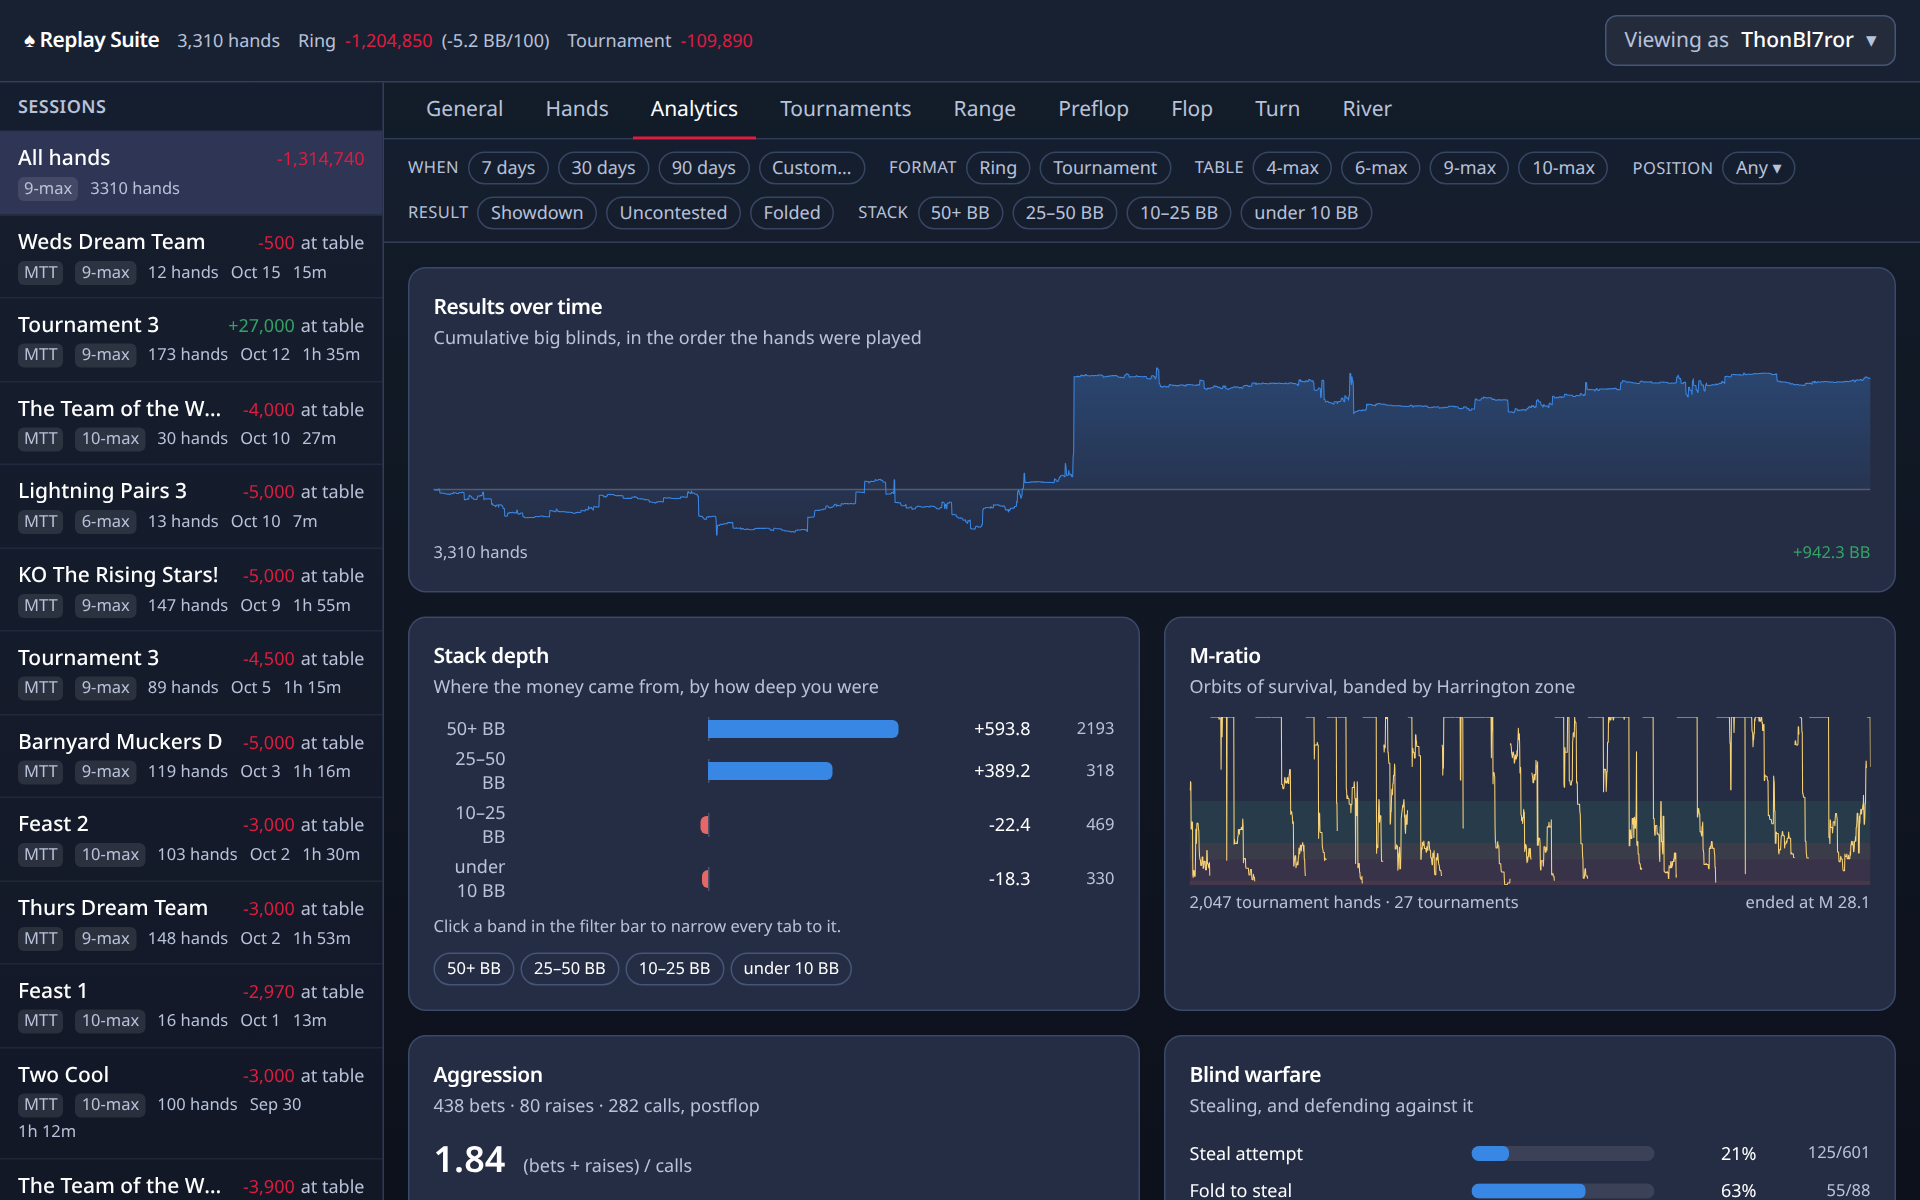
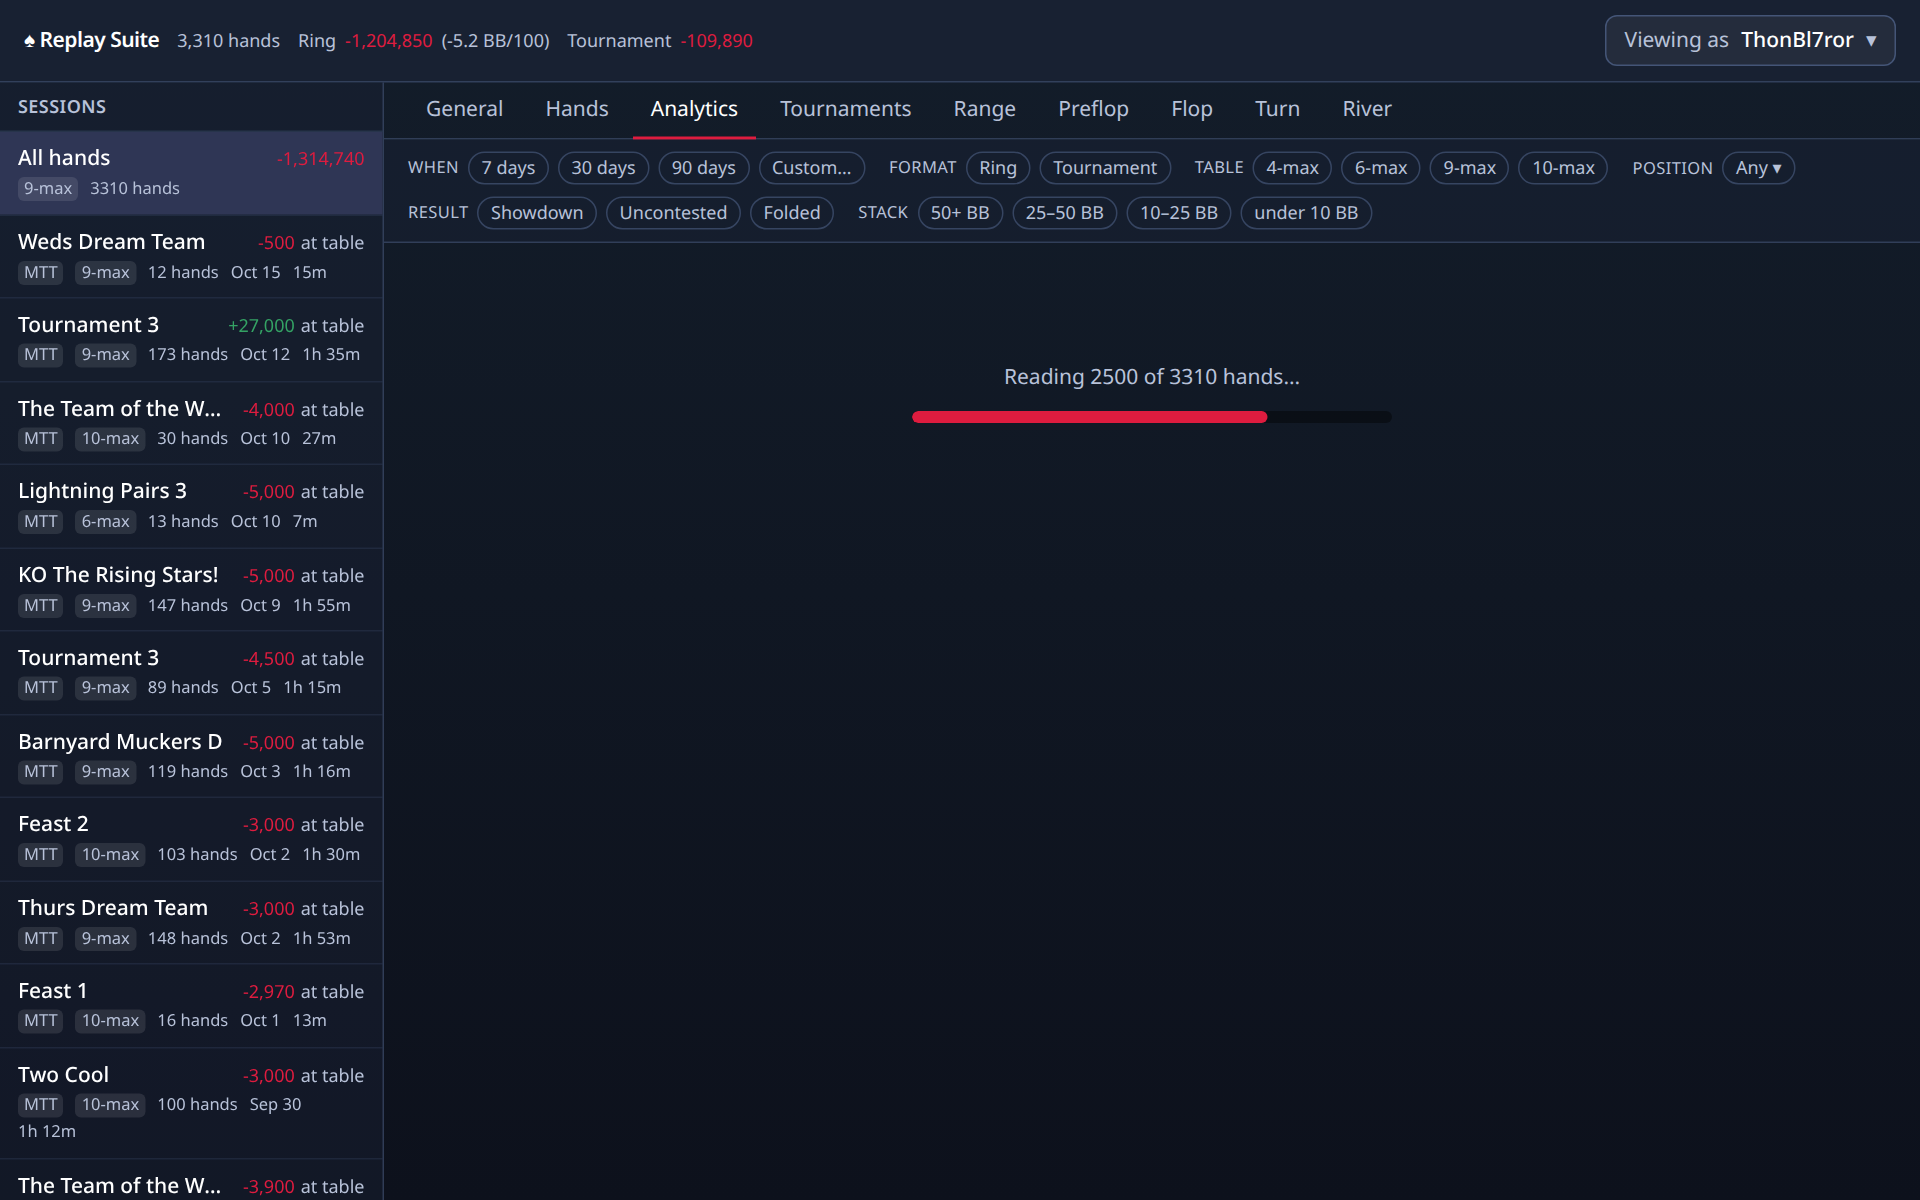
First person, a Support page with Ko-fi, and the PokerStars export
Badr speaks for himself on the home page, the Questions page and the
privacy policy. New Support Replay Suite page (sidebar, About) and a
donations section on the home page, linking to Ko-fi. The PokerStars
export, one hand, one session or everything, is now on the home page,
What it does, the dashboard and settings pages, and in both threads, with
its own feature card and screenshot. Both threads get the Ko-fi button.

diff --git a/forum/make-assets.py b/forum/make-assets.py
@@ -182,6 +182,10 @@ def drawn_icon(kind: str, size: int) -> Image.Image:
         for i, h in enumerate((.18, .28, .22, .4)):
             x = s * (.27 + i * .13)
             d.rounded_rectangle((x, s * (.7 - h), x + s * .09, s * .7), 6, fill=GOOD if i == 3 else MUTED)
+    elif kind == "export":  # a card with an arrow leaving it
+        d.rounded_rectangle((s * .26, s * .26, s * .52, s * .66), 10, fill=(240, 240, 248, 255))
+        d.line([(s * .5, s * .5), (s * .74, s * .5)], fill=GOLD, width=10)
+        d.polygon([(s * .74, s * .4), (s * .74, s * .6), (s * .84, s * .5)], fill=GOLD)
     elif kind == "play":
         d.polygon([(s * .4, s * .3), (s * .4, s * .7), (s * .72, s * .5)], fill=TEXT)
     return im
@@ -257,6 +261,9 @@ def feature_card(kind, title, line):
 for _kind, _title, _line in FEATURES:
     ASSETS[f"feature-{_kind}"] = (lambda k=_kind, t=_title, l=_line: feature_card(k, t, l))
 
+# Shown on its own under the grid of four: the one thing no other tool does for Replay.
+ASSETS["feature-export"] = lambda: feature_card("export", "Exports to PokerStars format", "For trackers, HUDs and solvers.")
+
 
 BUTTONS = [
     ("button-firefox", "Firefox", "Install in one click", ACCENT, (255, 214, 222)),
@@ -264,6 +271,7 @@ BUTTONS = [
     ("button-guide", "Step-by-step guide", "Pictures for every click", PANEL, MUTED),
     ("button-discussion", "Questions, bugs and ideas", "Join the Replay Suite discussion", PANEL, MUTED),
     ("button-versions", "Every version", "What changed, and the downloads", PANEL, MUTED),
+    ("button-kofi", "Support Replay Suite", "Free, and supported only by donations", PANEL, MUTED),
 ]
 
 
@@ -417,6 +425,7 @@ FRAMED = [
     ("shot-viewing-as", "dashboard-viewing-as", "Look at any opponent's numbers from the hands you played together", False),
     ("shot-settings-hud", "options-hud", "Choose what the badge at the table shows", False),
     ("shot-settings-data", "options-data", "Your library, back up and restore", False),
+    ("shot-export", "options-export", "Settings, Data: Export as PokerStars writes every hand in one go", False),
     ("shot-chrome-extensions", "chrome-extensions", "chrome://extensions: Developer mode on, Load unpacked, and the Replay Suite card", False),
 ]
 

diff --git a/forum/check.py b/forum/check.py
@@ -45,7 +45,8 @@ OUT = HERE / "out"
 COACH = SITE / "coach" / "coach-content.md"
 THREAD_B_URL_FILE = HERE / "thread-b-url.txt"
 
-TARGETS = {"amo": d.AMO_URL, "latest-zip": d.LATEST_ZIP_URL}
+KOFI_URL = "https://ko-fi.com/badrpoker"
+TARGETS = {"amo": d.AMO_URL, "latest-zip": d.LATEST_ZIP_URL, "kofi": KOFI_URL}
 POSTS = [
     ("thread-a", HERE / "thread-a-showcase.md", True),
     ("thread-b-deep-dive", HERE / "thread-b-deep-dive.md", False),

diff --git a/forum/thread-b-deep-dive.md b/forum/thread-b-deep-dive.md
@@ -10,7 +10,7 @@ Extra template tag here:  {{coach:Card title}}  a Coach's opinion quote from coa
 
 Hello everyone,
 
-This is the home thread for **Replay Suite**: questions, bug reports, ideas, and news of each new version. The short introduction is in the showcase thread; this post is the full walkthrough, one feature at a time, with pictures. You don't need to read it all. Open the parts you are curious about.
+I'm Badr, **ThonBl7ror** at the tables, and I made Replay Suite. This is its home thread: questions, bug reports, ideas, and news of each new version. The short introduction is in the showcase thread; this post is the full walkthrough, one feature at a time, with pictures. You don't need to read it all. Open the parts you are curious about.
 
 Post 2, just below, is the **status board**: the latest version, known bugs and planned ideas. The always up to date version of it is on the website: {{site:status/}}
 
@@ -104,6 +104,18 @@ Click the icon, then **Open Dashboard**. Left side: your sessions and tournament
 
 {{img:shot-viewing-as|Look at any opponent's numbers from the hands you played together}}
 
+{{img:feature-export|Exports to PokerStars format, for trackers, HUDs and solvers}}
+
+**Export to PokerStars.** Replay does not let you take your hand histories anywhere. Replay Suite writes them in **PokerStars hand-history format**, the format that trackers like PokerTracker and Hold'em Manager import, that their HUDs run on, and that solvers and study tools read. As far as I know, it is the only tool that can do this for Replay hands.
+
+- **One hand**: **Download as PokerStars** in the replayer.
+- **One session or tournament**: the **↓ PS** button next to it in the sessions list.
+- **Every hand you have**: Settings, Data, **Export as PokerStars**.
+
+{{img:shot-export|Settings, Data: Export as PokerStars writes every hand in one go}}
+
+Showdowns are written from the cards themselves, so an all-in hand names the hand that actually won. An export is a copy for other software, not a backup: use Back up for that.
+
 {{img:separator|}}
 
 {{img:section-04|04 The replayer: watch any hand again, step by step}}
@@ -126,7 +138,7 @@ When there is something honest to work it out from, the replayer also shows your
 
 {{coach:Equity, and why "shown hand" matters}}
 
-**Download as PokerStars** exports any hand for other poker software.
+**Download as PokerStars** saves the hand you are watching in PokerStars format, for other poker software (see the export part of section 03).
 
 [/details]
 
@@ -172,7 +184,7 @@ Click the icon, then **Settings**.
 
 **Retro mode** is the dark look Replay used to have. Switch it on in the popup or in Settings. It takes effect the next time you open or reload a Replay page.
 
-**Import and Export.** Files from the older ReplayTracker tool import here. You can also export hands in PokerStars format.
+**Import.** Files from the older ReplayTracker tool import here, and merge with what you have. Exporting to PokerStars format is in section 03.
 
 **Background work.** Fetching your old hands and tournament results takes requests to Replay's servers. The add-on does this slowly on purpose, never while you are sitting at a table, and you can see what it is doing and pause it in Settings, Background.
 
@@ -190,7 +202,9 @@ Click the icon, then **Settings**.
 
 **Does it collect anything?** No. There is no account, no server, no analytics, no adverts, nothing that phones home. The only website it talks to is Replay itself, with the login you already have, to fetch your own history. The privacy policy is short: {{site:privacy/}}
 
-**Who made it, and what does it cost?** Me, on my own time. It is free and will stay free: no premium version, no adverts. If you would like to say thanks, there is a Support button in the add-on. Entirely optional.
+**Who made it, and what does it cost?** I did, on my own time. It is free and will stay free: no premium version, no adverts. That also means it is supported only by donations. If it helps your game and you have the means, a coffee helps me keep it maintained and keep improving it. Entirely optional. (The Support button in the add-on leads to the same page.)
+
+{{link-img:button-kofi|Support Replay Suite: buy me a coffee on Ko-fi|kofi}}
 
 {{coach:Play money is still poker}}
 

diff --git a/docs/dashboard.md b/docs/dashboard.md
@@ -12,6 +12,8 @@ How many hands, and your result. Ring games are shown in chips, tournaments in b
 
 Every table you have sat at, newest first, with the format (ring, MTT, SnG), the table size, how many hands, and the result. Click one and every tab narrows to it. Click **All hands** to widen again.
 
+The <kbd>↓ PS</kbd> button next to each session downloads every hand from it in PokerStars format, ready for other poker software. See [Export to PokerStars](#export-to-pokerstars) below.
+
 ## The filter bar
 
 Under the tabs. When (7 days, 30 days, custom), format, table size, position, how the hand ended, and stack depth. Every chip you press narrows every tab at once. Press it again to clear.
@@ -58,7 +60,7 @@ Steps through one hand like a video. Seats, stacks, the pot and the board, with 
 - **A range**: pick a set of hands they might have had, and see your chances against that.
 - **Seen with**: your chances against the hands you have actually seen this player show down before. The panel says exactly what it is using.
 
-<kbd>Download as PokerStars</kbd> exports the hand for other poker software.
+<kbd>Download as PokerStars</kbd> saves this one hand in PokerStars format, for other poker software. See [Export to PokerStars](#export-to-pokerstars) below.
 
 !!! coach "Coach's opinion"
     <!-- COACH: Card "Pot odds in one minute" -->
@@ -119,6 +121,20 @@ A grid of all 169 starting hands, coloured by how you play them. Preset ranges o
 !!! coach "Coach's opinion"
     <!-- COACH: Card "The Range tab: what a 13 by 13 grid shows" -->
     The grid has 169 cells, one for every starting hand that plays the same way. Pairs run down the diagonal from AA to 22. Suited hands sit above it, offsuit hands below. Suited means both cards in one suit. K9s is the cell for a king and a nine of the same suit. Each cell is shaded by how you have done with that hand, blue for won, red for lost, empty for never dealt. Click cells, or drag across them, to build a selection. Range width tells you what share of all possible holdings that is. Then apply it, and every tab shows only hands where you held one of those. Try selecting your red cells and asking why.
+
+## Export to PokerStars
+
+Replay Suite writes your Replay hands in **PokerStars hand-history format**, the format trackers like PokerTracker and Hold'em Manager import and that solvers and study tools read. That makes your Replay hands usable in all of them, which Replay itself does not offer. As far as I know, Replay Suite is the only tool that can do this.
+
+| To export | Where |
+|---|---|
+| One hand | <kbd>Download as PokerStars</kbd>, top right of the replayer |
+| One session or tournament | <kbd>↓ PS</kbd>, next to it in the sessions list |
+| Every hand you have | Settings, Data, <kbd>Export as PokerStars</kbd> |
+
+![Settings, Data: Export as PokerStars writes every hand in one go](img/shots/options-export.png)
+
+Showdowns are written from the cards themselves rather than from what the site recorded at the moment they were shown, so an all-in hand names the hand that actually won. An export is a copy for other software, not a backup: to keep your hands safe, use [Back up](data.md#back-up).
 
 ## Viewing as
 

diff --git a/forum/thread-a-showcase.md b/forum/thread-a-showcase.md
@@ -6,7 +6,7 @@ No version numbers, no dates, only permanent links.
 Do not paste this file. Run   python3 forum/check.py   and paste forum/out/thread-a.md.
 Template tags:
   {{img:NAME|alt}}              an image from docs/img/forum, at forum size
-  {{link-img:NAME|alt|TARGET}}  the same, as a link. TARGET: amo, latest-zip, thread-b, or a site page like install/
+  {{link-img:NAME|alt|TARGET}}  the same, as a link. TARGET: amo, latest-zip, kofi, thread-b, or a site page like install/
   {{site:PAGE}}                 a page of the website, e.g. {{site:privacy/}}
 -->
 
@@ -28,6 +28,10 @@ It's free, there's no account to make, and nothing you play ever leaves your com
 {{img:feature-opponents|Reads your opponents: a small badge under each player}}
 {{img:feature-results|Shows how you're doing: by seat, by tournament, by hand}}
 [/grid]
+
+{{img:feature-export|Exports to PokerStars format, for trackers, HUDs and solvers}}
+
+It also exports your Replay hands to **PokerStars format**: one hand, one session, or all of them at once. That makes them usable in trackers like PokerTracker and Hold'em Manager, in their HUDs, and in solvers and study tools. As far as I know, Replay Suite is the only tool that can do this for Replay hands.
 
 {{img:shot-dashboard|The dashboard: every hand you play, and what it says about your game}}
 
@@ -70,6 +74,14 @@ This thread is closed so it stays easy to read. Questions, bug reports, ideas an
 What changed in each version, and every download, is on the website:
 
 {{link-img:button-versions|Every version: what changed, and the downloads|versions/}}
+
+{{img:separator|}}
+
+## Supported by donations
+
+Replay Suite is free, and I'm keeping it that way: no premium version, no adverts. It is supported only by donations. If it helps your game and you have the means, a coffee helps me keep it maintained and keep improving it. Entirely optional.
+
+{{link-img:button-kofi|Support Replay Suite: buy me a coffee on Ko-fi|kofi}}
 
 See you at the tables.
 

diff --git a/docs/what-it-does.md b/docs/what-it-does.md
@@ -10,6 +10,7 @@ Replay Suite is a free add-on for your browser. It saves every hand you play on 
 - **You can replay any hand**, card by card, with the pot odds worked out for you.
 - **You can see how you are doing** over a week, a month, or since you started. By seat, by tournament, by starting hand.
 - **You can see who you are playing against.** A small badge under each player at the table shows a few numbers about them, built from the hands you have already seen them play.
+- **You can take your hands to other poker software.** Export one hand, one session or your whole history in PokerStars format.
 - **Retro mode** brings back the dark look Replay used to have.
 
 !!! coach "Coach's opinion"
@@ -37,6 +38,20 @@ At the table, a small badge under each player shows how they tend to play, built
 ![The HUD at a 6-max table](img/shot-hud-table.png)
 
 [More about the HUD](hud.md)
+
+## Use your hands in other poker software
+
+Replay does not let you take your hand histories anywhere. Replay Suite does: it writes them in **PokerStars hand-history format**, the format that trackers like PokerTracker and Hold'em Manager import, and that solvers and study tools read. As far as I know, it is the only tool that can do this for Replay hands.
+
+- **One hand**: <kbd>Download as PokerStars</kbd> in the replayer.
+- **One session or tournament**: the <kbd>↓ PS</kbd> button next to it in the dashboard's sessions list.
+- **Everything at once**: Settings, Data, <kbd>Export as PokerStars</kbd>.
+
+![Settings, Data: Export as PokerStars writes every hand in one go](img/shots/options-export.png)
+
+Showdowns are written from the cards themselves, so an all-in hand names the hand that actually won.
+
+[More about exporting](data.md#export-for-other-trackers)
 
 ## What it is not
 

diff --git a/docs/index.md b/docs/index.md
@@ -37,11 +37,16 @@ Not sure which browser you have? Look at the icon you click to get online. An or
 - **Replays any hand**, step by step, with the pot odds worked out.
 - **Reads your opponents** with a small badge under each player at the table.
 - **Shows how you are doing**, by seat, by tournament, by starting hand.
+- **Exports your hands to PokerStars format**, one hand, one session or all of them, so PokerTracker, Hold'em Manager and solvers can read them.
 
 [See everything it does](what-it-does.md)
 
-## Who made it
+## Hello, I'm Badr
 
-Replay Suite is made by **Badr (aka ThonBl7ror)**, a Replay player. It is free to use and will stay free: no premium version, no adverts, and nothing about you leaves your device. Replay staff know about it and have given it the okay. It is not affiliated with ReplayPoker.
+I'm **Badr (aka ThonBl7ror)**, a Replay player, and I made Replay Suite. It is free to use and it will stay free: no premium version, no adverts, and nothing about you leaves your device. Replay staff know about it and have given it the okay. It is not affiliated with ReplayPoker.
 
-If you would like to say thanks, there is a **Support** button in the add-on. Entirely optional.
+## Supported by donations
+
+Because it is free, Replay Suite is supported only by donations. If it has been useful to you and you have the means, a coffee helps me keep it maintained and keep improving it. Entirely optional.
+
+[Buy me a coffee on Ko-fi](https://ko-fi.com/badrpoker){ .md-button .md-button--primary } [Other ways to help](support.md){ .md-button }

diff --git a/docs/support.md b/docs/support.md
@@ -1,0 +1,21 @@
+# Support Replay Suite
+
+Hello, I'm **Badr (aka ThonBl7ror)**, and I made Replay Suite.
+
+Replay Suite is free, all of it, and it will stay that way. There is no premium version, no adverts, no tracking, and nothing about you leaves your computer. That also means it earns nothing on its own: **it is supported only by donations.**
+
+Every new version, every bug fixed and every idea from the forum that makes it in is built in my own time. If Replay Suite has been useful to you and you have the means, a coffee helps me keep it maintained and keep improving it.
+
+[Buy me a coffee on Ko-fi](https://ko-fi.com/badrpoker){ .md-button .md-button--primary }
+
+You can also reach the same page from the add-on itself: click the icon, then <kbd>Support</kbd>.
+
+## Other ways to help
+
+Donations are welcome, and so is everything else, and none of it costs a thing:
+
+- **Report a bug** or **suggest an idea** on the Replay forum. Every one gets a number on the [Status](status.md) page.
+- **Tell a friend** at your table about it.
+- **Answer a question** in the forum thread when you know the answer.
+
+Thank you for playing with it. See you at the tables.

diff --git a/docs/data.md b/docs/data.md
@@ -31,7 +31,15 @@ If you used the older ReplayTracker tool, its exported files go in here.
 
 ## Export for other trackers
 
-Writes your hands in PokerStars hand-history format, which most poker software reads. Export everything, one session, or one hand from the replayer.
+Writes your hands in PokerStars hand-history format, the format PokerTracker, Hold'em Manager, solvers and most other poker software read. It turns your Replay hands into something those tools can use, which Replay itself does not offer.
+
+- **Everything**: Settings, Data, <kbd>Export as PokerStars</kbd>.
+- **One session or tournament**: the <kbd>↓ PS</kbd> button next to it in the dashboard.
+- **One hand**: <kbd>Download as PokerStars</kbd> in the replayer.
+
+![Settings, Data: Export as PokerStars](img/shots/options-export.png)
+
+An export is a conversion for other software, not a backup. Use [Back up](#back-up) for anything you need to restore from.
 
 ## Recover from ReplayPoker
 

diff --git a/forum/codex-prompts.md b/forum/codex-prompts.md
@@ -18,4 +18,5 @@ frame. Square, at least 1024 px, subject centred with some empty space around it
 | `icon-replays.png` | Three playing cards fanned out, with a round crimson play button in front of them. |
 | `icon-opponents.png` | Three friendly, faceless player avatars side by side, each with a small rounded gold badge under it. |
 | `icon-results.png` | A rising bar chart of four rounded bars with a small gold upward arrow and a poker chip at its foot. |
+| `icon-export.png` | A stack of three playing cards with a red spade on the top card, and a curved gold arrow leaving the stack towards a small navy document page, suggesting hands being exported to other software. |
 | `hero-table.png` | A green felt poker table seen from slightly above, oval, with a polished wooden rail, a few chip stacks and three face down cards, soft glow under the table. |

diff --git a/docs/faq.md b/docs/faq.md
@@ -30,7 +30,7 @@ No. There is no account, no server, no analytics, no adverts, nothing that phone
 
 ## Is it free?
 
-Yes, and it stays free. No premium version, no adverts. The add-on is the author's own work and is licensed rather than open source; the builds are free for everyone.
+Yes, and it stays free. No premium version, no adverts. Replay Suite is my own work and is licensed rather than open source; the builds are free for everyone. It is supported only by donations: [here is how to help](support.md), if you would like to.
 
 ## I installed it and nothing happened
 

diff --git a/docs/privacy.md b/docs/privacy.md
@@ -3,7 +3,7 @@
 **Last updated: 20 October 2026**
 
 Replay Suite is a browser extension that records your own ReplayPoker hands and
-shows you statistics about them. It is made by Badr (aka ThonBl7ror).
+shows you statistics about them. I'm Badr (aka ThonBl7ror), and I made it.
 
 ## What it collects
 
